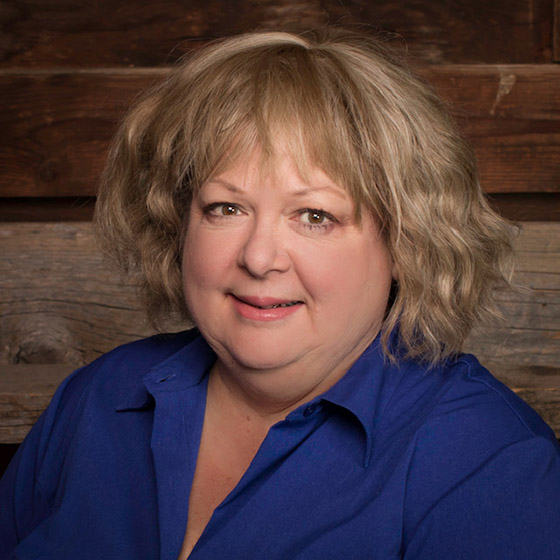
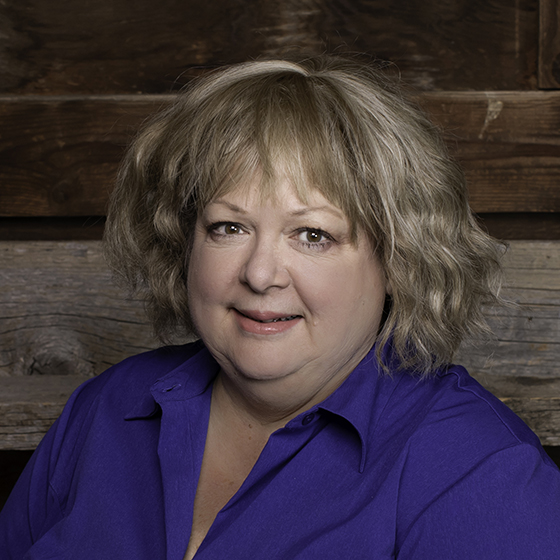
added new images to people page, and some contact info

diff --git a/css/default.less b/css/default.less
@@ -9,7 +9,8 @@
 @min-width-medium: 768px;
 @min-width-large: 1024px;
 
-@grey_txt_color:#4a4a4a;
+@grey_txt_color:#676c73;
+@orange_txt_color:#c35532;
 
 html, body {
     margin:0;
@@ -39,7 +40,7 @@ html, body {
 
 }
 
-.gh-bkg-grey { background-color:#666A73; }
+.gh-bkg-grey { background-color:@grey_txt_color; }
 .gh-bkg-ltgrey { background-color:#DFDFDF; }
 
 /* padding */
@@ -126,7 +127,7 @@ h1, h2, h3, h4, h5 {
 }
 h2 {
     font-family:@lato;
-    font-weight:normal;
+    font-weight:300;
     font-size:2.75em;
 }
 h2.emphasized {
@@ -157,7 +158,7 @@ p {
 .white { color:#fff; }
 
 /* links */
-a, a:link, a:active, a:focus, a:visited, a:hover { color:#4a4a4a; }
+a, a:link, a:active, a:focus, a:visited, a:hover { color:@grey_txt_color; }
 
 /* logo */
 .gh-logo a { display:block; }
@@ -205,19 +206,26 @@ a, a:link, a:active, a:focus, a:visited, a:hover { color:#4a4a4a; }
             padding:0 0 0.5em 0;
             font-family:@lato;
             text-align:right;
-            color:#4a4a4a;
+            color:@grey_txt_color;
             text-decoration:none;
-            font-size:1em;
-            display:inline-block;
         }
 
     }
-    @media (min-width: @min-width-small) {
+    @media (min-width: @min-width-tiny) {
         #gh-nav {
             width:calc( 50% - 2em );
             a {
                 margin:0 0 0 2em;
+                font-size:1em;
+                display:block;
+            }
+        }
+    }
+    @media (min-width: @min-width-small) {
+        #gh-nav {
+            a {
                 font-size:1.2em;
+                display:inline-block;
             }
         }
     }
@@ -305,7 +313,7 @@ a, a:link, a:active, a:focus, a:visited, a:hover { color:#4a4a4a; }
                 100% {
                     opacity:1;
                 }
-              }
+            }
 
             @media (min-width: @min-width-tiny) {
                 h1 {
@@ -343,7 +351,7 @@ a, a:link, a:active, a:focus, a:visited, a:hover { color:#4a4a4a; }
     height:100%;
     height:100vh;
     max-height:540px;
-    background-color:#4a4a4a;
+    background-color:@grey_txt_color;
     align-items:stretch;
     display:flex;
 
@@ -532,8 +540,9 @@ a, a:link, a:active, a:focus, a:visited, a:hover { color:#4a4a4a; }
 
     h2 {
         font-family:@lato;
+        font-weight:400;
         font-size:1.8em;
-        color:#d25132;
+        color:@orange_txt_color;
     }
 
     a.gh-person {
@@ -544,18 +553,29 @@ a, a:link, a:active, a:focus, a:visited, a:hover { color:#4a4a4a; }
 
         span.gh-person-name,
         span.gh-person-title {
-            padding:0.5em 0 0em 0;
+            padding:0.3em 0 0em 0;
             font-family:@lato;
             display:block;
         }
         span.gh-person-name {
-            font-size:1.5em;
+            padding-top:0.5em;
+            font-size:1.45em;
+            font-weight:300;
+
+            small {
+                font-size:0.7em;
+                font-weight:normal;
+            }
+
         }
         span.gh-person-title {
+            padding-bottom:0.7em;
             font-size:1em;
-            font-style:italic;
         }
 
+    }
+    a.gh-person:hover {
+        text-decoration:underline;
     }
 
 }
@@ -569,7 +589,7 @@ a, a:link, a:active, a:focus, a:visited, a:hover { color:#4a4a4a; }
         padding:0;
         font-family:@lato;
         font-size:4em;
-        font-weight:normal;
+        font-weight:300;
     }
 
     p {
@@ -629,7 +649,7 @@ a, a:link, a:active, a:focus, a:visited, a:hover { color:#4a4a4a; }
         font-style:italic;
         font-weight:bold;
         font-family:@lato;
-        color:#d25132;
+        color:@orange_txt_color;
         display:block;
     }
     blockquote p {

diff --git a/css/default.css b/css/default.css
@@ -23,7 +23,7 @@ body {
   display: block;
 }
 .gh-bkg-grey {
-  background-color: #666A73;
+  background-color: #676c73;
 }
 .gh-bkg-ltgrey {
   background-color: #DFDFDF;
@@ -165,12 +165,12 @@ h5 {
   margin: 0 0 0.7em 0;
   padding: 0;
   line-height: 1.3em;
-  color: #4a4a4a;
+  color: #676c73;
   display: block;
 }
 h2 {
   font-family: 'Lato', sans-serif;
-  font-weight: normal;
+  font-weight: 300;
   font-size: 2.75em;
 }
 h2.emphasized {
@@ -189,7 +189,7 @@ p {
   font-family: 'Lato', sans-serif;
   font-size: 1.2em;
   line-height: 1.4em;
-  color: #4a4a4a;
+  color: #676c73;
   display: block;
 }
 .text-left {
@@ -212,7 +212,7 @@ a:active,
 a:focus,
 a:visited,
 a:hover {
-  color: #4a4a4a;
+  color: #676c73;
 }
 /* logo */
 .gh-logo a {
@@ -258,18 +258,23 @@ a:hover {
   padding: 0 0 0.5em 0;
   font-family: 'Lato', sans-serif;
   text-align: right;
-  color: #4a4a4a;
+  color: #676c73;
   text-decoration: none;
-  font-size: 1em;
-  display: inline-block;
 }
-@media (min-width: 480px) {
+@media (min-width: 300px) {
   #gh-header #gh-nav {
     width: calc(50% - 2em);
   }
   #gh-header #gh-nav a {
     margin: 0 0 0 2em;
+    font-size: 1em;
+    display: block;
+  }
+}
+@media (min-width: 480px) {
+  #gh-header #gh-nav a {
     font-size: 1.2em;
+    display: inline-block;
   }
 }
 @supports (display:grid) {
@@ -299,7 +304,7 @@ a:hover {
 .gh-hero img {
   width: 100%;
   display: block;
-  background-color: #4a4a4a;
+  background-color: #676c73;
 }
 .gh-hero .gh-caption {
   position: absolute;
@@ -367,7 +372,7 @@ a:hover {
   height: 100%;
   height: 100vh;
   max-height: 540px;
-  background-color: #4a4a4a;
+  background-color: #676c73;
   align-items: stretch;
   display: flex;
 }
@@ -535,8 +540,9 @@ a:hover {
 }
 .gh-people-column h2 {
   font-family: 'Lato', sans-serif;
+  font-weight: 400;
   font-size: 1.8em;
-  color: #d25132;
+  color: #c35532;
 }
 .gh-people-column a.gh-person {
   padding: 0 0 1.5em 0;
@@ -545,16 +551,25 @@ a:hover {
 }
 .gh-people-column a.gh-person span.gh-person-name,
 .gh-people-column a.gh-person span.gh-person-title {
-  padding: 0.5em 0 0em 0;
+  padding: 0.3em 0 0em 0;
   font-family: 'Lato', sans-serif;
   display: block;
 }
 .gh-people-column a.gh-person span.gh-person-name {
-  font-size: 1.5em;
+  padding-top: 0.5em;
+  font-size: 1.45em;
+  font-weight: 300;
+}
+.gh-people-column a.gh-person span.gh-person-name small {
+  font-size: 0.7em;
+  font-weight: normal;
 }
 .gh-people-column a.gh-person span.gh-person-title {
+  padding-bottom: 0.7em;
   font-size: 1em;
-  font-style: italic;
+}
+.gh-people-column a.gh-person:hover {
+  text-decoration: underline;
 }
 .gh-person-hero {
   background-color: #DFDFDF;
@@ -564,7 +579,7 @@ a:hover {
   padding: 0;
   font-family: 'Lato', sans-serif;
   font-size: 4em;
-  font-weight: normal;
+  font-weight: 300;
 }
 .gh-person-hero p {
   margin: 0 0 0.9em 0;
@@ -608,7 +623,7 @@ a:hover {
   font-style: italic;
   font-weight: bold;
   font-family: 'Lato', sans-serif;
-  color: #d25132;
+  color: #c35532;
   display: block;
 }
 .gh-person-content blockquote p {

diff --git a/our-people/index.php b/our-people/index.php
@@ -83,13 +83,13 @@ else: /* show our people html */
 
 ?>
 <section>
-    <div class="gh-hero gh-hero-full">
-        <span class="gh-caption">
-            <div class="gh_grid">
-                <h1>A headline about our people</h1>
-                <p>Lorem ipsum dolor sit amet, consectetur adipiscing elit, sed do eiusmod tempor incididunt ut labore et dolore magna aliqua.</p>
+    <div class="gh-hero">
+        <img src="<?php echo docroot; ?>img/people/Grayhawk_Bios-Group_2U1A1280.jpg" alt="">
+        <div class="gh-caption">
+            <div class="gh-caption-container">
+                <h1>Our People</h1>
             </div>
-        </span>
+        </div>
     </div>
 </section>
 <section>
@@ -98,7 +98,7 @@ else: /* show our people html */
             <div class="gh_grid">
                 <h2>Board of Directors</h2>
             </div>
-            <div class="gh_grid gh_grid-1-3 gh_grid-nogap">
+            <div class="gh_grid gh_grid-1-3">
 
                 <?php echo gf_list_people( 'Board of Directors', $gf_people ); ?>
 
@@ -111,10 +111,10 @@ else: /* show our people html */
         <div class="gh-panel-4">
             <div class="gh_grid gh_grid-1-2 gh_grid-nogap">
                 <div class="gh-item">
-                    <img src="<?php echo docroot; ?>img/temp-flair-img.jpg" alt="">
+                    <img src="<?php echo docroot; ?>img/people/Grayhawk_Bios-Group_960x640-LEFT_FA.jpg" alt="">
                 </div>
                 <div class="gh-item">
-                    <img src="<?php echo docroot; ?>img/temp-flair-img.jpg" alt="">
+                    <img src="<?php echo docroot; ?>img/people/Grayhawk_Bios-Group_960x640-RIGHT_FA.jpg" alt="">
                 </div>
             </div>
         </div>
@@ -126,7 +126,7 @@ else: /* show our people html */
             <div class="gh_grid">
                 <h2>Our Team</h2>
             </div>
-            <div class="gh_grid gh_grid-1-3 gh_grid-nogap">
+            <div class="gh_grid gh_grid-1-3">
 
                 <?php echo gf_list_people( 'Our Team', $gf_people ); ?>
 

diff --git a/includes/header.inc.php b/includes/header.inc.php
@@ -22,7 +22,7 @@ function returnNavActive( $page_name, $link_name ){
 <title><?php echo $page_name ? "Greyhawk: " . $page_name : "Greyhawk"; ?></title>
 <meta name="description" content="">
 <meta name="viewport" content="width=device-width, initial-scale=1">
-<link href="//fonts.googleapis.com/css?family=Lusitana:400,700|Lato:400,700" rel="stylesheet">
+<link href="//fonts.googleapis.com/css?family=Lusitana:400,700|Lato:300,400,700" rel="stylesheet">
 <link href="<?php echo docroot; ?>css/default.css" rel="stylesheet">
 </head>
 <body>

diff --git a/contact/index.php b/contact/index.php
@@ -24,7 +24,8 @@ include('../includes/header.inc.php');
                 <div class="gh-item">
                     <h2>For general inquiries please contact:</h2>
                     <p>Allison Comeau – Chief Operating Officer<br>
-Phone: (877) 665-9951</p>
+Phone: (877) 665-9951<br>
+<a href="mailto:acomeau@grayhawk.investments">acomeau@grayhawk.investments</a></p>
                 </div>
                 <div class="gh-item">
                     <div class="pad-right-exlarge nopad-tiny nopad-small">

diff --git a/includes/people.inc.php b/includes/people.inc.php
@@ -406,7 +406,7 @@ function gf_get_persons($v, $k, $group){
 function gf_get_person($a){
 
     $link = $_SERVER['REQUEST_URI'] . "person/" . strtolower( clean_string( $a['name'] ) ) . "/";
-    $name = $a['certification'] != "" ? $a['name'] . " " . $a['certification'] : $a['name'];
+    $name = $a['certification'] != "" ? $a['name'] . " <small>" . $a['certification'] . "</small>" : $a['name'];
 
 ?>
 
